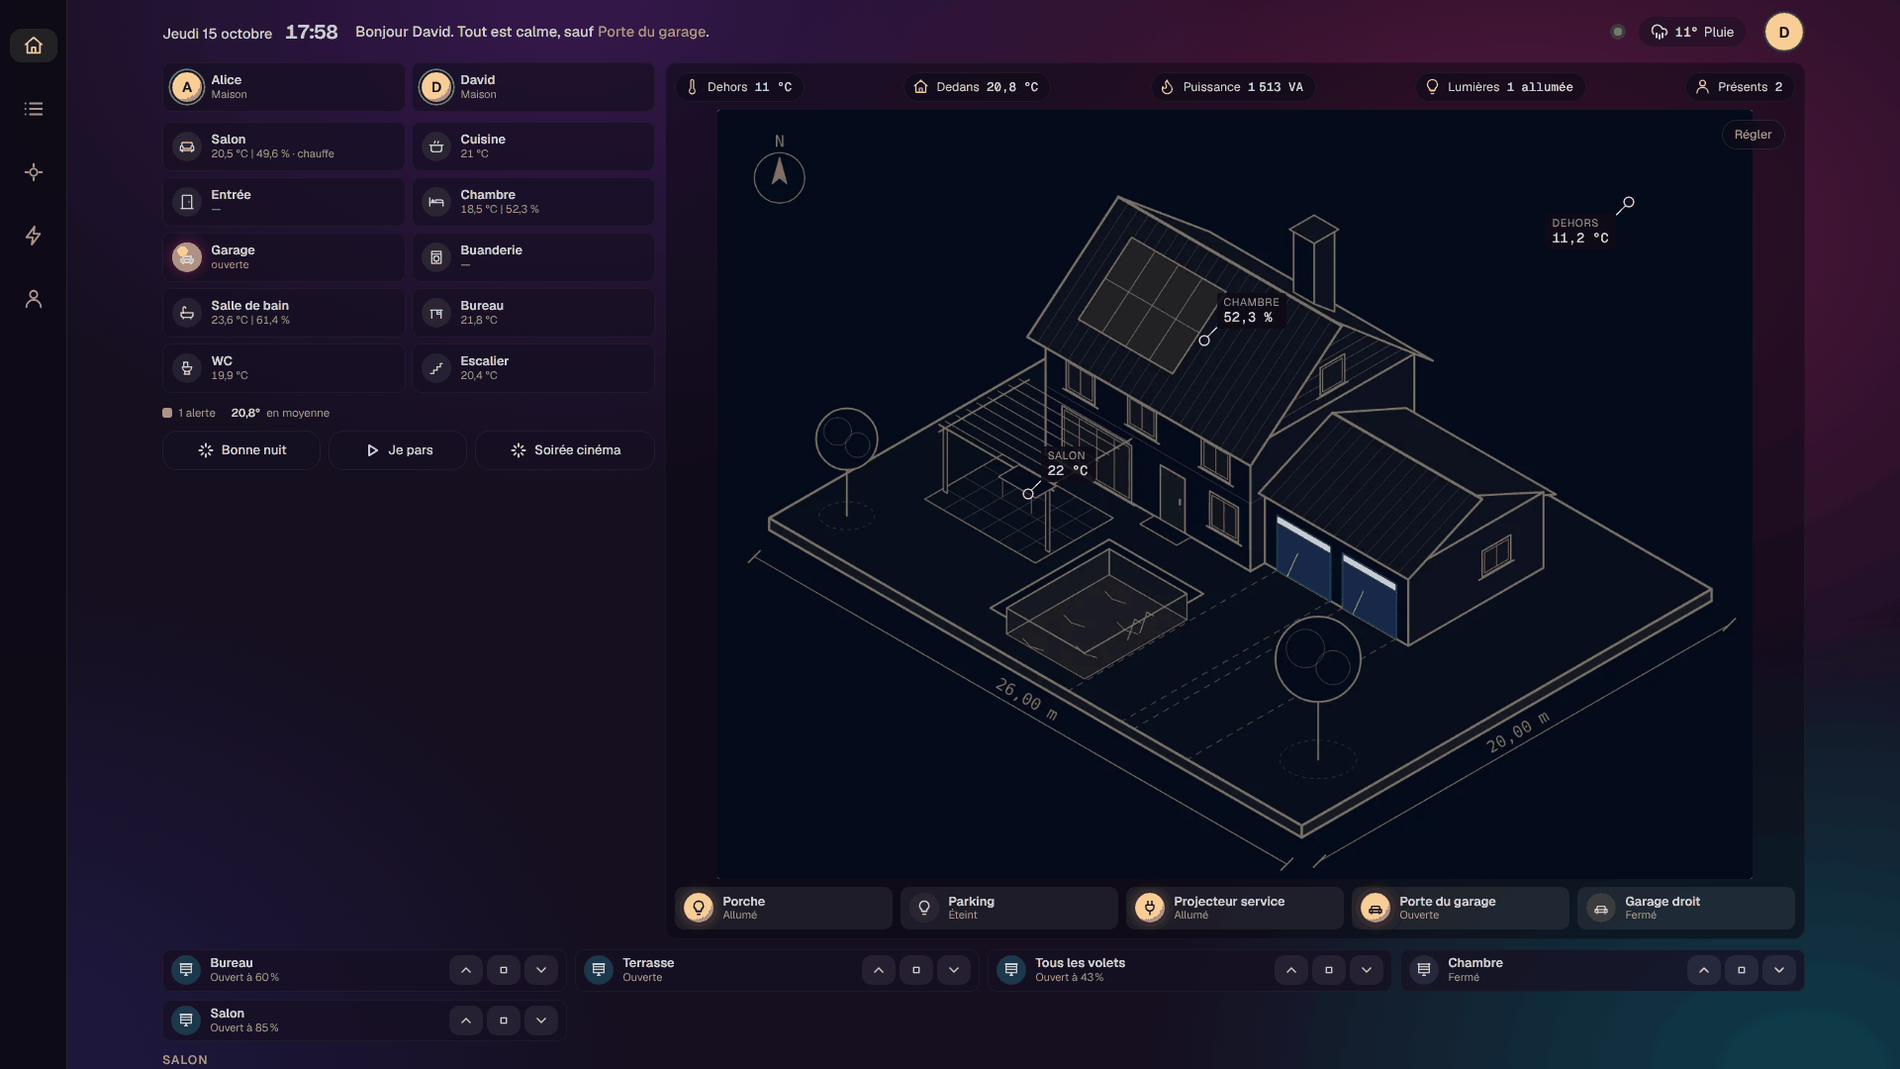
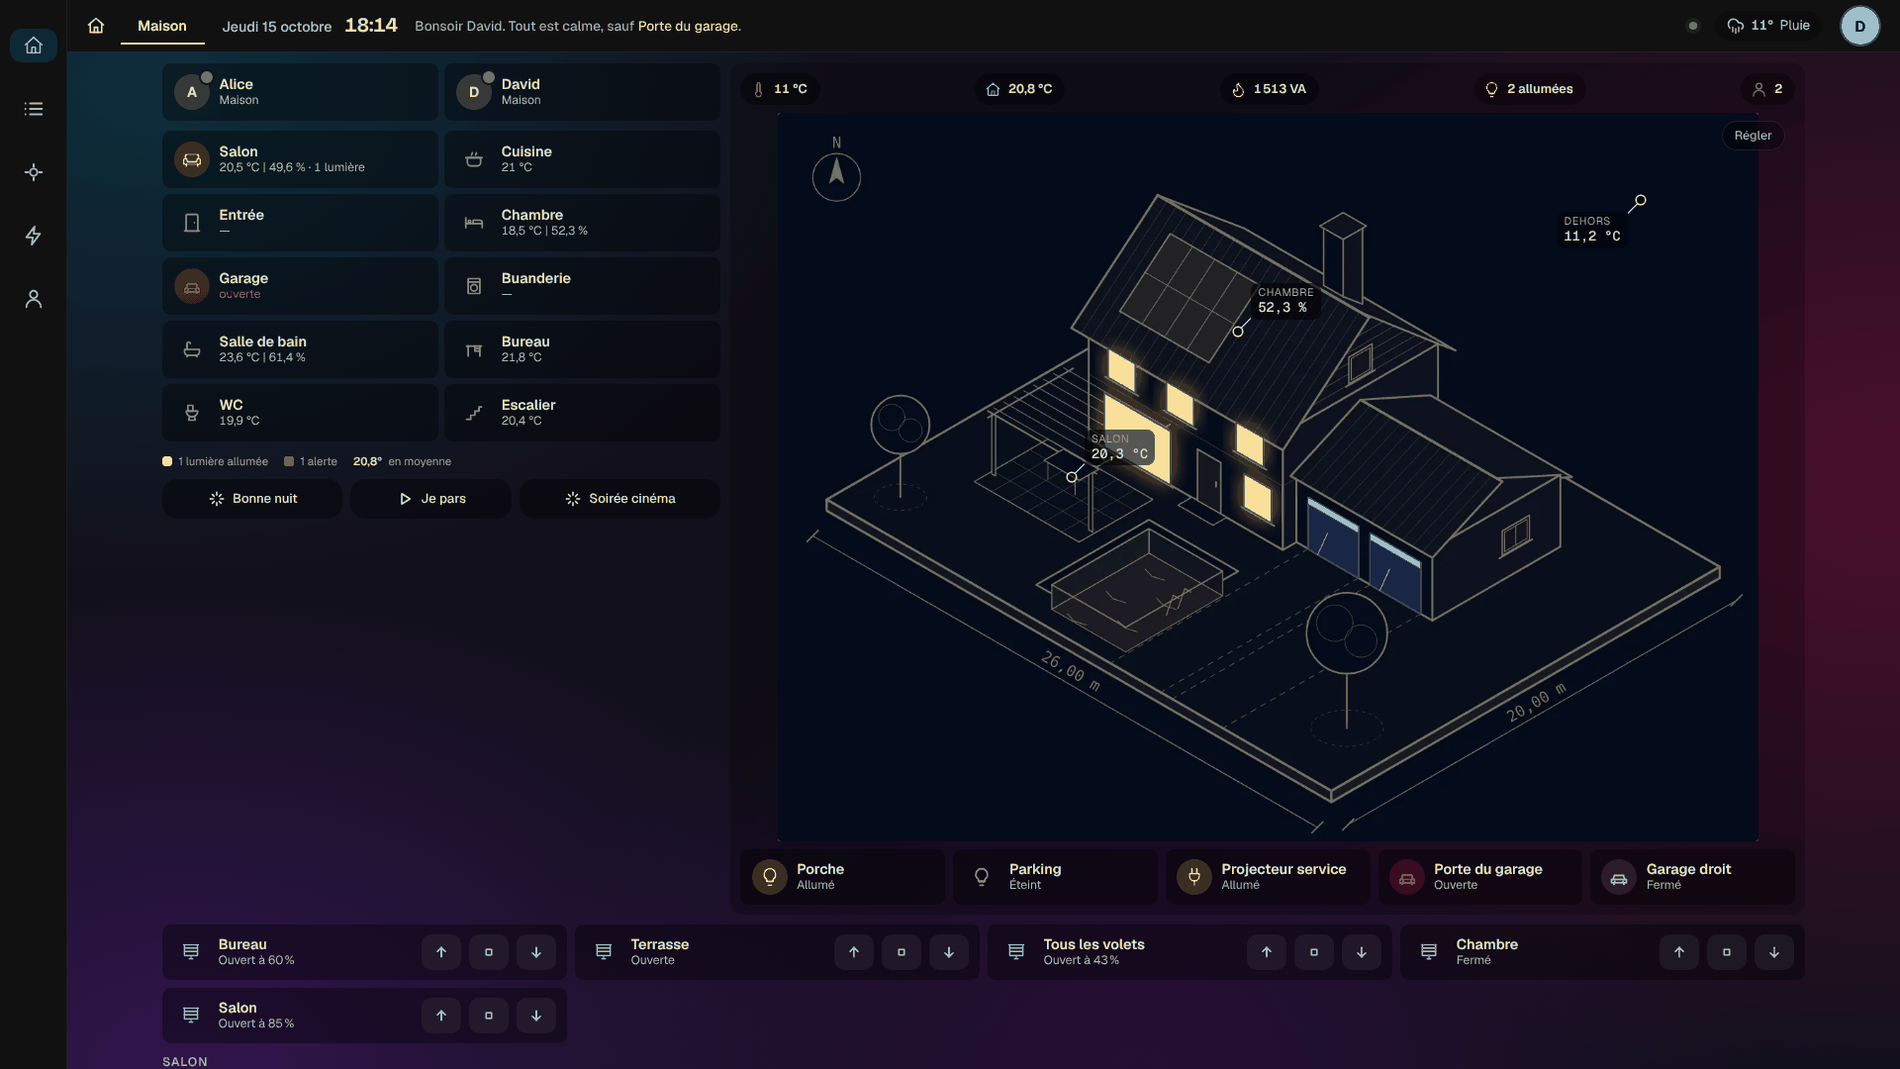
Restyle Maquette after the Home Assistant look of the reference
As on the domo-blog dashboards (Home Assistant Material on a gradient):
a black top bar with the "Maison" tab underlined, a black rail whose
active item is tinted blue, a teal / violet / crimson background,
tiles as a translucent black veil without border, grey icons that
take their colour in a tinted circle when active (amber light, orange
heating, red alert or open garage), coloured gauge icons, covers with
a violet icon and square arrow buttons, people with a green "home"
badge, and Home Assistant tile proportions on wide screens.

Claude-Session: https://claude.ai/code/session_01Dkvx92mMriiViKmoaNEmtb

diff --git a/crates/ha-api/web/style.css b/crates/ha-api/web/style.css
@@ -2063,81 +2063,164 @@ label.check { display: flex; align-items: center; gap: 0.45rem; color: var(--tex
 [data-theme|="plan"] .board-covers > h2::after { content: ""; flex: 1; height: 1px; background: var(--ink-line); }
 
 /* ======================================================================
-   Maquette (étape 37) : un fond sombre dégradé, violet vers bleu nuit, des
-   tuiles translucides. Pour une maquette 3D sur fond sombre.
+   Maquette (étape 37) : le style des tableaux isométriques de Home Assistant
+   (domo-blog). Une barre noire en haut avec l'onglet de la page, un rail noir
+   à gauche, un fond dégradé (bleu-vert, violet, cramoisi), des tuiles en voile
+   noir translucide, des icônes grises qui prennent leur couleur, dans un rond
+   teinté, quand l'appareil est actif.
    ====================================================================== */
 
+.board-tab { display: none; }
+
 :root[data-theme="maquette"] {
-  --bar: #120e1c;
-  --bg: #120e1c;
+  --bar: #111111;
+  --bg: #12101c;
   --sky-1: transparent;
   --sky-2: transparent;
-  /* Des panneaux plus sombres que le fond, comme sur les maquettes. */
-  --card: rgb(22 15 34 / 0.72);
-  --card-2: rgb(255 255 255 / 0.07);
+  --card: rgb(0 0 0 / 0.36);
+  --card-2: rgb(255 255 255 / 0.06);
   --line: rgb(255 255 255 / 0.1);
-  --text: #f5f2fa;
-  --text-2: #ddd6ea;
-  --muted: #9d93b3;
-  --accent: #ffa733;
-  --accent-ink: #1f1405;
-  --accent-soft: rgb(255 167 51 / 0.16);
-  --glow: #ffa733;
-  --glow-ink: #ffd99a;
-  --glow-soft: rgb(255 167 51 / 0.14);
-  --glow-line: rgb(255 167 51 / 0.4);
-  --glow-bar: #ffa733;
-  --heat: #ff7a45;
-  --heat-ink: #ffbf9f;
-  --heat-soft: rgb(255 122 69 / 0.16);
-  --ok: #4fd69c;
-  --ok-soft: rgb(79 214 156 / 0.15);
-  --alert: #ff5a6e;
-  --alert-ink: #ffc6ce;
-  --alert-soft: rgb(255 90 110 / 0.15);
-  --alert-stripe: rgb(255 90 110 / 0.28);
-  --shadow: inset 0 0 0 1px rgb(255 255 255 / 0.045);
-  --shadow-float: inset 0 0 0 1px rgb(255 255 255 / 0.07), 0 20px 48px rgb(0 0 0 / 0.6);
+  --text: #e9e9ee;
+  --text-2: #d0d0d8;
+  --muted: #a3a3ad;
+  --accent: #03a9f4;
+  --accent-ink: #001a26;
+  --accent-soft: rgb(3 169 244 / 0.16);
+  --glow: #ffc107;
+  --glow-ink: #ffe08a;
+  --glow-soft: rgb(255 193 7 / 0.16);
+  --glow-line: rgb(255 193 7 / 0.4);
+  --glow-bar: #ffc107;
+  --heat: #ff7043;
+  --heat-ink: #ffb59a;
+  --heat-soft: rgb(255 112 67 / 0.18);
+  --ok: #4caf50;
+  --ok-soft: rgb(76 175 80 / 0.18);
+  --alert: #f44336;
+  --alert-ink: #ffb3ad;
+  --alert-soft: rgb(244 67 54 / 0.18);
+  --alert-stripe: rgb(244 67 54 / 0.3);
+  --shadow: none;
+  --shadow-float: 0 18px 44px rgb(0 0 0 / 0.6);
   --radius: 12px;
+  /* Couleurs des icônes actives (Material, comme Home Assistant). */
+  --m-amber: #ffc107;
+  --m-orange: #ff9800;
+  --m-deep-orange: #ff5722;
+  --m-green: #4caf50;
+  --m-cyan: #00bcd4;
+  --m-blue: #03a9f4;
+  --m-purple: #b05dd6;
+  --m-red: #f44336;
   color-scheme: dark;
 }
 [data-theme="maquette"] body {
-  /* Presque noir, une lueur magenta-bordeaux en haut à droite, une lueur
-     bleu-vert en bas : l'ambiance des maquettes de domo-blog. */
   background:
-    radial-gradient(1200px 820px at 80% 22%, rgb(160 30 96 / 0.5), transparent 66%),
-    radial-gradient(1000px 700px at 30% 0%, rgb(92 34 130 / 0.45), transparent 70%),
-    radial-gradient(1000px 700px at 95% 100%, rgb(6 118 128 / 0.45), transparent 66%),
-    radial-gradient(900px 700px at 0% 100%, rgb(46 40 120 / 0.4), transparent 70%),
-    #150f20 fixed;
+    radial-gradient(1100px 760px at 8% 8%, rgb(10 70 86 / 0.55), transparent 65%),
+    radial-gradient(1100px 760px at 10% 100%, rgb(70 24 110 / 0.6), transparent 65%),
+    radial-gradient(1300px 900px at 100% 45%, rgb(110 14 52 / 0.62), transparent 68%),
+    radial-gradient(900px 700px at 60% 100%, rgb(60 14 80 / 0.5), transparent 70%),
+    #12101c fixed;
   background-attachment: fixed;
 }
 [data-theme="maquette"] :is(.hero, .login) { background: none; }
-/* Ce qui flotte au-dessus de la page reste opaque. */
-[data-theme="maquette"] :is(.history-dialog, .canvas-panel, .canvas-menu, .login-card) { background: #1a1426; }
+[data-theme="maquette"] :is(.history-dialog, .canvas-panel, .canvas-menu, .login-card) { background: #1c1b22; }
+[data-theme="maquette"] :is(.ghost, .period) { background: rgb(0 0 0 / 0.3); border-color: rgb(255 255 255 / 0.1); }
+[data-theme="maquette"] .scene { background: var(--card); border: 0; }
+[data-theme="maquette"] .scene.on { background: rgb(255 193 7 / 0.18); color: var(--m-amber); }
 
-[data-theme="maquette"] .house { background: rgb(10 8 18 / 0.5); }
-[data-theme="maquette"] .gauge { background: rgb(16 12 26 / 0.7); border: 0; box-shadow: inset 0 0 0 1px rgb(255 255 255 / 0.06); color: var(--text-2); }
-[data-theme="maquette"] .gauge svg { color: var(--accent); }
-[data-theme="maquette"] .house-label::before { box-shadow: 0 0 0 1.5px #ffffff; }
-[data-theme="maquette"] .house-label::after { background: #ffffff; }
-[data-theme="maquette"] .house-tag { border-color: rgb(255 255 255 / 0.35); background: rgb(14 11 22 / 0.85); }
-[data-theme="maquette"] .scene.on { background: var(--accent); color: var(--accent-ink); }
-[data-theme="maquette"] .scene { background: var(--card); border-color: rgb(255 255 255 / 0.06); }
-[data-theme="maquette"] :is(.ghost, .period) { background: rgb(16 12 26 / 0.62); border-color: rgb(255 255 255 / 0.1); }
-/* Des icônes rondes, qui s'allument en couleur (comme sur les maquettes). */
-[data-theme="maquette"] :is(.room-icon, .house-action-icon, .icon) { border-radius: 50%; }
-[data-theme="maquette"] :is(.room-icon, .house-action-icon, .person-avatar) { background: rgb(255 255 255 / 0.08); color: #cfc7de; }
+/* La barre noire du haut et le rail noir de gauche. */
+[data-theme="maquette"][data-layout="board"] .hero { background: #111111; box-shadow: 0 1px 0 rgb(255 255 255 / 0.06); }
+@media (min-width: 1000px) {
+[data-theme="maquette"][data-layout="board"] .board-tab {
+  display: inline-flex;
+  align-items: center;
+  gap: 0.9rem;
+  align-self: stretch;
+  order: -1;
+  color: #ffffff;
+  font-size: 0.9rem;
+}
+}
+[data-theme="maquette"] .board-tab svg { width: 20px; height: 20px; color: #e0e0e0; }
+[data-theme="maquette"] .board-tab b { font-weight: 600; padding: 0.55rem 1.1rem; box-shadow: inset 0 -2px 0 #ffffff; }
+[data-theme="maquette"][data-layout="board"] .greeting { color: #a3a3ad; font-size: 0.85rem; }
+[data-theme="maquette"][data-layout="board"] .greeting a { color: #ffb3ad; }
+@media (min-width: 1000px) {
+  /* La barre prend toute la largeur, derrière le rail. */
+  [data-theme="maquette"][data-layout="board"] .hero { max-width: none; margin: 0; padding: 0 1.2rem 0 calc(68px + 1.2rem); min-height: 52px; }
+  [data-theme="maquette"][data-layout="board"] .layout { margin-top: 12px; grid-template-columns: minmax(340px, 34%) minmax(0, 1fr); }
+  /* Les proportions des tuiles de Home Assistant. */
+  [data-theme="maquette"][data-layout="board"] :is(.room, .person-chip) { min-height: 58px; padding: 8px 12px; }
+  [data-theme="maquette"][data-layout="board"] :is(.room-icon, .house-action-icon, .person-avatar) { width: 36px; height: 36px; }
+  [data-theme="maquette"][data-layout="board"] :is(.room-icon, .house-action-icon) svg { width: 20px; height: 20px; }
+  [data-theme="maquette"][data-layout="board"] :is(.room-line-name, .house-action-text b) { font-size: 0.9rem; }
+  [data-theme="maquette"][data-layout="board"] :is(.room-line-info, .house-action-text span) { font-size: 0.76rem; }
+  [data-theme="maquette"][data-layout="board"] :is(.house-action, .cover-row) { padding: 0.5rem 0.7rem; min-height: 56px; }
+  [data-theme="maquette"][data-layout="board"] .cover-row-buttons .round { width: 40px; height: 36px; }
+  [data-theme="maquette"][data-layout="board"] .gauge { min-height: 32px; font-size: 0.8rem; padding-inline: 0.6rem 0.8rem; }
+}
+[data-theme="maquette"] .dock { background: #111111; box-shadow: inset -1px 0 0 rgb(255 255 255 / 0.06); }
+[data-theme="maquette"] .dock :is(a, button) { color: #b4b4bc; }
+[data-theme="maquette"] .dock .active { background: rgb(3 169 244 / 0.16); color: var(--m-blue); }
+
+/* Les tuiles : un voile noir, le nom en gras, l'état en gris. */
+[data-theme="maquette"] :is(.room, .person-chip, .house-action, .cover-row, .tile) { background: var(--card); box-shadow: none; border: 0; }
+[data-theme="maquette"] :is(.room-line-name, .house-action-text b) { color: #f0f0f4; font-weight: 600; }
+[data-theme="maquette"] :is(.room-line-info, .house-action-text span) { color: #b4b4bc; }
+[data-theme="maquette"] .house { background: rgb(0 0 0 / 0.22); }
+
+/* Les icônes : grises au repos, colorées dans un rond teinté quand c'est actif. */
+[data-theme="maquette"] :is(.room-icon, .house-action-icon, .icon) { border-radius: 50%; background: transparent; color: #8e8e98; }
 [data-theme="maquette"] .room.lit .room-icon,
 [data-theme="maquette"] .house-action.on .house-action-icon,
-[data-theme="maquette"] .tile.light.on .icon { background: radial-gradient(circle at 35% 30%, #ffc766, #f08c00); color: #2a1700; box-shadow: 0 0 14px rgb(255 160 40 / 0.4); }
-[data-theme="maquette"] .tile.light.on { background: linear-gradient(140deg, rgb(255 160 40 / 0.2), rgb(16 12 26 / 0.62) 70%); box-shadow: inset 0 0 0 1px rgb(255 167 51 / 0.3); }
-[data-theme="maquette"] .person-chip.home .person-avatar { background: radial-gradient(circle at 35% 30%, #ffc766, #f08c00); color: #2a1700; box-shadow: 0 0 0 2px #1a1426, 0 0 0 3.5px var(--ok); }
-[data-theme="maquette"] .cover-row.on .house-action-icon { background: rgb(120 200 255 / 0.18); color: #8fd3ff; }
-[data-theme="maquette"] .room.alert .room-icon { background: radial-gradient(circle at 35% 30%, #ff8f9a, #e2445a); box-shadow: 0 0 14px rgb(255 107 122 / 0.4); }
-[data-theme="maquette"] .gauge { min-height: 30px; font-size: 0.78rem; }
-[data-theme="maquette"] .cover-row-buttons .round { background: rgb(255 255 255 / 0.07); border-radius: 10px; }
-[data-theme="maquette"] .dock { background: rgb(14 11 22 / 0.94); }
+[data-theme="maquette"] .tile.light.on .icon { background: rgb(255 193 7 / 0.2); color: var(--m-amber); box-shadow: none; }
+[data-theme="maquette"] .room.heat .room-icon,
+[data-theme="maquette"] .tile.climate.heating .icon { background: rgb(255 152 0 / 0.2); color: var(--m-orange); }
+[data-theme="maquette"] .room.alert .room-icon { background: rgb(244 67 54 / 0.22); color: var(--m-red); box-shadow: none; }
+[data-theme="maquette"] .house-action.d-garage:not(.on) .house-action-icon { background: rgb(255 255 255 / 0.1); color: #c4c4cc; }
+[data-theme="maquette"] .house-action.d-garage.on .house-action-icon { background: rgb(255 87 34 / 0.2); color: var(--m-deep-orange); }
+[data-theme="maquette"] :is(.tile.switch.on, .tile.binary.on) .icon { background: rgb(76 175 80 / 0.2); color: var(--m-green); }
+[data-theme="maquette"] .tile.cover .icon { color: var(--m-purple); }
+[data-theme="maquette"] .tile.light.on { background: linear-gradient(135deg, rgb(255 193 7 / 0.14), var(--card) 65%); box-shadow: none; }
+
+/* Les personnes : l'initiale dans un rond, un badge vert « à la maison ». */
+[data-theme="maquette"] .person-avatar { position: relative; background: #3a3a44; color: #ffffff; box-shadow: none; }
+[data-theme="maquette"] .person-chip.home .person-avatar { background: #3a3a44; color: #ffffff; box-shadow: none; }
+[data-theme="maquette"] .person-chip.home .person-avatar::after {
+  content: "";
+  position: absolute;
+  top: -3px;
+  right: -3px;
+  width: 12px;
+  height: 12px;
+  border-radius: 50%;
+  background: var(--m-green);
+  box-shadow: 0 0 0 2px #15131c;
+}
+
+/* Les volets : l'icône violette, des boutons carrés sombres avec des flèches. */
+[data-theme="maquette"] .cover-row .house-action-icon { background: transparent; color: var(--m-purple); }
+[data-theme="maquette"] .cover-row.on .house-action-icon { color: var(--m-cyan); }
+[data-theme="maquette"] .cover-row-buttons { gap: 8px; }
+[data-theme="maquette"] .cover-row-buttons .round { background: rgb(255 255 255 / 0.06); border: 0; border-radius: 10px; color: #d0d0d8; }
+[data-theme="maquette"] .cover-row-buttons .round:hover { background: rgb(255 255 255 / 0.12); }
+[data-theme="maquette"] .cover-row-buttons .round svg { stroke-width: 2.2; }
+
+/* Les pastilles du haut : une icône de couleur, la valeur en gras. */
+[data-theme="maquette"] .gauge { background: rgb(0 0 0 / 0.36); border: 0; box-shadow: none; color: #e9e9ee; min-height: 30px; font-size: 0.76rem; }
+[data-theme="maquette"] .gauge > span { display: none; }
+[data-theme="maquette"] .gauge strong { font-family: var(--font); font-weight: 600; }
+[data-theme="maquette"] .gauge.g-outside svg { color: var(--m-red); }
+[data-theme="maquette"] .gauge.g-inside svg { color: var(--m-cyan); }
+[data-theme="maquette"] .gauge.g-power svg { color: var(--m-amber); }
+[data-theme="maquette"] .gauge.g-lights svg { color: var(--m-orange); }
+[data-theme="maquette"] .gauge.g-people svg { color: var(--m-green); }
+
+/* Les valeurs posées sur le dessin. */
+[data-theme="maquette"] .house-label::before { box-shadow: 0 0 0 1.5px #ffffff; }
+[data-theme="maquette"] .house-label::after { background: #ffffff; }
+[data-theme="maquette"] .house-tag { border: 0; border-radius: 8px; background: rgb(0 0 0 / 0.6); }
 
 /* ---------- Réglage du dessin ---------- */
 

diff --git a/crates/ha-api/web/house.js b/crates/ha-api/web/house.js
@@ -233,8 +233,8 @@ function houseCaption() {
 
 // ---------------------------------------------------------------- Repères
 
-function gauge(icon, label, value) {
-  return el("span", { class: "gauge" }, svgIcon(icon), el("span", { text: label }), el("strong", { text: value }));
+function gauge(icon, label, value, kind) {
+  return el("span", { class: `gauge g-${kind}`, title: label }, svgIcon(icon), el("span", { text: label }), el("strong", { text: value }));
 }
 
 function renderGauges() {
@@ -244,21 +244,21 @@ function renderGauges() {
   const outside = entities.get("sensor.meteo_temperature");
   const outsideTemp = finite(weather?.attributes.temperature) ? weather.attributes.temperature
     : outside && Number.isFinite(Number(outside.state)) ? Number(outside.state) : NaN;
-  if (Number.isFinite(outsideTemp)) items.push(gauge(ICONS.temperature, "Dehors", `${number.format(outsideTemp)} °C`));
+  if (Number.isFinite(outsideTemp)) items.push(gauge(ICONS.temperature, "Dehors", `${number.format(outsideTemp)} °C`, "outside"));
   const temps = areas.map(roomInfo).map((info) => info.temperature).filter((t) => Number.isFinite(t));
   if (temps.length > 0) {
-    items.push(gauge(ICONS.home, "Dedans", `${number.format(temps.reduce((a, b) => a + b, 0) / temps.length)} °C`));
+    items.push(gauge(ICONS.home, "Dedans", `${number.format(temps.reduce((a, b) => a + b, 0) / temps.length)} °C`, "inside"));
   }
   const power = entities.get("sensor.linky_puissance");
   if (power && Number.isFinite(Number(power.state))) {
-    items.push(gauge(ICONS.flame, "Puissance", `${number.format(Number(power.state))} ${power.attributes.unit_of_measurement ?? "VA"}`));
+    items.push(gauge(ICONS.flame, "Puissance", `${number.format(Number(power.state))} ${power.attributes.unit_of_measurement ?? "VA"}`, "power"));
   }
   const lights = [...entities.values()].filter((s) => domainOf(s) === "light" && s.state === "on").length;
-  items.push(gauge(ICONS.bulb, "Lumières", lights === 0 ? "éteintes" : `${lights} allumée${lights > 1 ? "s" : ""}`));
+  items.push(gauge(ICONS.bulb, "Lumières", lights === 0 ? "éteintes" : `${lights} allumée${lights > 1 ? "s" : ""}`, "lights"));
   const zone = entities.get("zone.home");
   if (Array.isArray(zone?.attributes.persons)) {
     const count = zone.attributes.persons.length;
-    items.push(gauge(ICONS.person, "Présents", String(count)));
+    items.push(gauge(ICONS.person, "Présents", String(count), "people"));
   }
   box.hidden = items.length === 0;
   box.replaceChildren(...items);
@@ -318,7 +318,7 @@ function actionChip(state) {
   const status = domain === "cover" ? coverText(state) : statusText(state);
   const active = ["on", "open", "opening", "unlocked"].includes(state.state);
   const command = actionCommand(state);
-  const chip = el("button", { type: "button", class: `house-action${active ? " on" : ""}` },
+  const chip = el("button", { type: "button", class: `house-action d-${garage ? "garage" : domain}${active ? " on" : ""}` },
     el("span", { class: "house-action-icon" }, svgIcon(icon)),
     el("span", { class: "house-action-text" }, el("b", { text: nameOf(state) }), el("span", { text: status })));
   chip.setAttribute("aria-label", `${nameOf(state)} : ${status}`);
@@ -354,7 +354,7 @@ function coverTitle(state) {
 }
 
 function coverRow(state) {
-  const buttons = [["open_cover", ICONS.up, "Ouvrir"], ["stop_cover", ICONS.stop, "Arrêter"], ["close_cover", ICONS.down, "Fermer"]]
+  const buttons = [["open_cover", ICONS.arrowUp, "Ouvrir"], ["stop_cover", ICONS.square, "Arrêter"], ["close_cover", ICONS.arrowDown, "Fermer"]]
     .map(([service, icon, label]) => {
       const button = el("button", { type: "button", class: "round", "aria-label": `${label} ${coverTitle(state)}` }, svgIcon(icon));
       button.addEventListener("click", () => {

diff --git a/crates/ha-api/web/app.js b/crates/ha-api/web/app.js
@@ -467,6 +467,7 @@ function renderPlan() {
     if (info.count >= 4) classes.push("big");
     if (info.alert) classes.push("alert");
     else if (info.lights > 0) classes.push("lit");
+    else if (info.heating) classes.push("heat");
     const room = el(
       "button",
       { type: "button", class: classes.join(" "), "aria-label": [area.name, detail, Number.isFinite(info.temperature) ? `${number.format(info.temperature)} degrés` : ""].filter(Boolean).join(", ") },
@@ -1835,6 +1836,10 @@ Object.assign(ICONS, {
   desk: ["M3 8h18", "M5 8v12", "M19 8v12", "M13 8v6h6", "M15 11h2"],
   washer: ["M5 3h14v18H5z", "M5 7h14", "M12 10a4 4 0 1 0 0 8 4 4 0 1 0 0-8z"],
   tree: ["M12 22v-5", "M12 3l6 8h-3l4 6H5l4-6H6z"],
+  // Les boutons des volets (mise en page « tableau »).
+  arrowUp: ["M12 19V5", "M6 11l6-6 6 6"],
+  arrowDown: ["M12 5v14", "M18 13l-6 6-6-6"],
+  square: ["M8 8h8v8H8z"],
 });
 const BINARY_ICONS = { motion: ICONS.motion, connectivity: ICONS.globe };
 

diff --git a/crates/ha-api/web/index.html b/crates/ha-api/web/index.html
@@ -47,6 +47,8 @@
   <div id="dashboard-view" class="app" hidden>
     <header class="hero">
       <div class="hero-top">
+        <!-- Mise en page « tableau » : l'onglet de la page, comme dans Home Assistant. -->
+        <span class="board-tab" aria-hidden="true"><svg viewBox="0 0 24 24"><path d="M3 11l9-8 9 8"/><path d="M5 10v10h14V10"/><path d="M10 20v-6h4v6"/></svg><b>Maison</b></span>
         <p class="today"><span id="today"></span><span id="clock" class="clock"></span></p>
         <span id="connection" class="status" aria-live="polite">Connexion…</span>
         <span id="weather-pill" class="weather-pill" hidden></span>

diff --git a/docs/maquette.md b/docs/maquette.md
@@ -18,15 +18,27 @@ Reprendre la mise en page des tableaux de bord isométriques de Home Assistant (
 - **puis les volets**, sur toute la largeur, trois ou quatre par ligne, avec ▲ ■ ▼, et tous les
   autres appareils comme avant.
 
-Les icônes sont rondes et s'allument en couleur : orange pour une lumière allumée ou une porte
-ouverte, rouge pour une alerte.
+Les icônes sont rondes et s'allument en couleur quand l'appareil est actif.
 
 ## Choisir l'apparence
 
-**Mon compte → Apparence → Maquette** : un fond presque noir, avec une lueur magenta en haut à
-droite, violette en haut et bleu-vert en bas ; des panneaux plus sombres que le fond, des icônes
-rondes qui s'allument en orange, comme sur les tableaux de domo-blog. C'est fait pour une maquette 3D sur fond sombre : l'article de domo-blog
-demande à l'IA un fond `#1C1C1C`.
+**Mon compte → Apparence → Maquette** : le style des tableaux de domo-blog, qui est celui de Home
+Assistant (Material) posé sur un fond dégradé.
+
+- Une **barre noire** en haut, avec l'onglet « Maison » souligné, et un **rail noir** à gauche, dont
+  l'élément actif est teinté de bleu.
+- Un fond **bleu-vert** en haut à gauche, **violet** en bas, **cramoisi** à droite.
+- Des **tuiles en voile noir** translucide, sans bordure : le nom en gras, l'état en gris dessous.
+- Des **icônes grises au repos**, qui prennent leur couleur dans un rond teinté quand l'appareil
+  est actif : ambre pour une lumière, orange pour le chauffage, rouge pour une alerte ou une porte
+  de garage ouverte.
+- Des pastilles en haut du dessin avec une **icône de couleur** chacune.
+- Des volets avec une icône violette (bleu-vert quand ils sont ouverts) et des **boutons carrés**
+  ↑ ■ ↓.
+- Les personnes avec leur initiale et un **badge vert** quand elles sont à la maison.
+
+C'est fait pour une maquette 3D sur fond sombre : l'article de domo-blog demande à l'IA un fond
+`#1C1C1C`.
 
 Les deux styles « plan d'architecte » prennent aussi cette mise en page. Clair et sombre gardent
 la mise en page habituelle.
